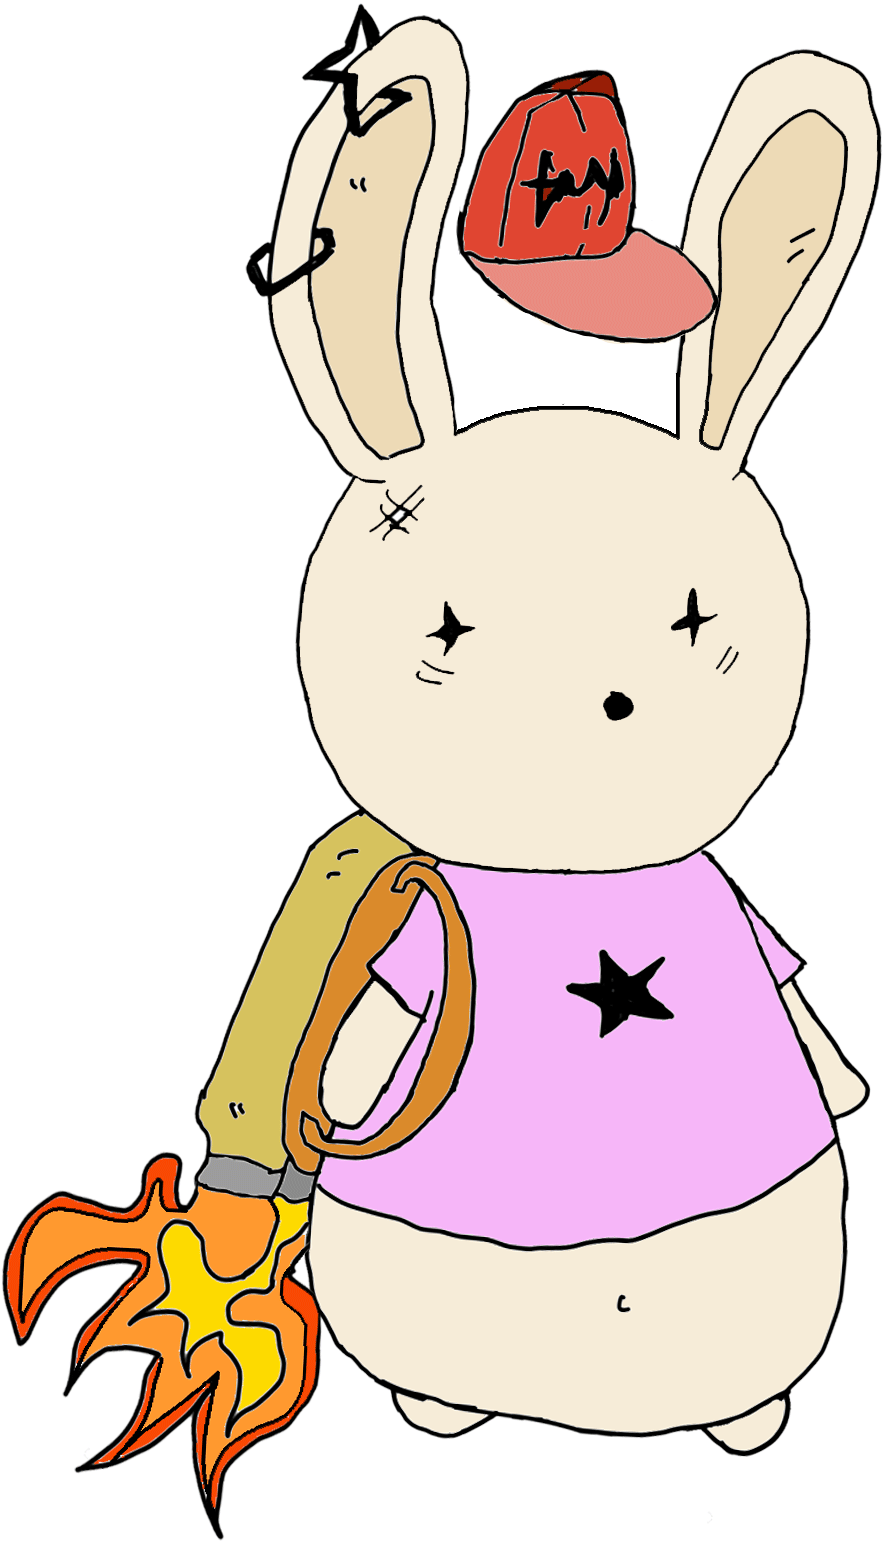
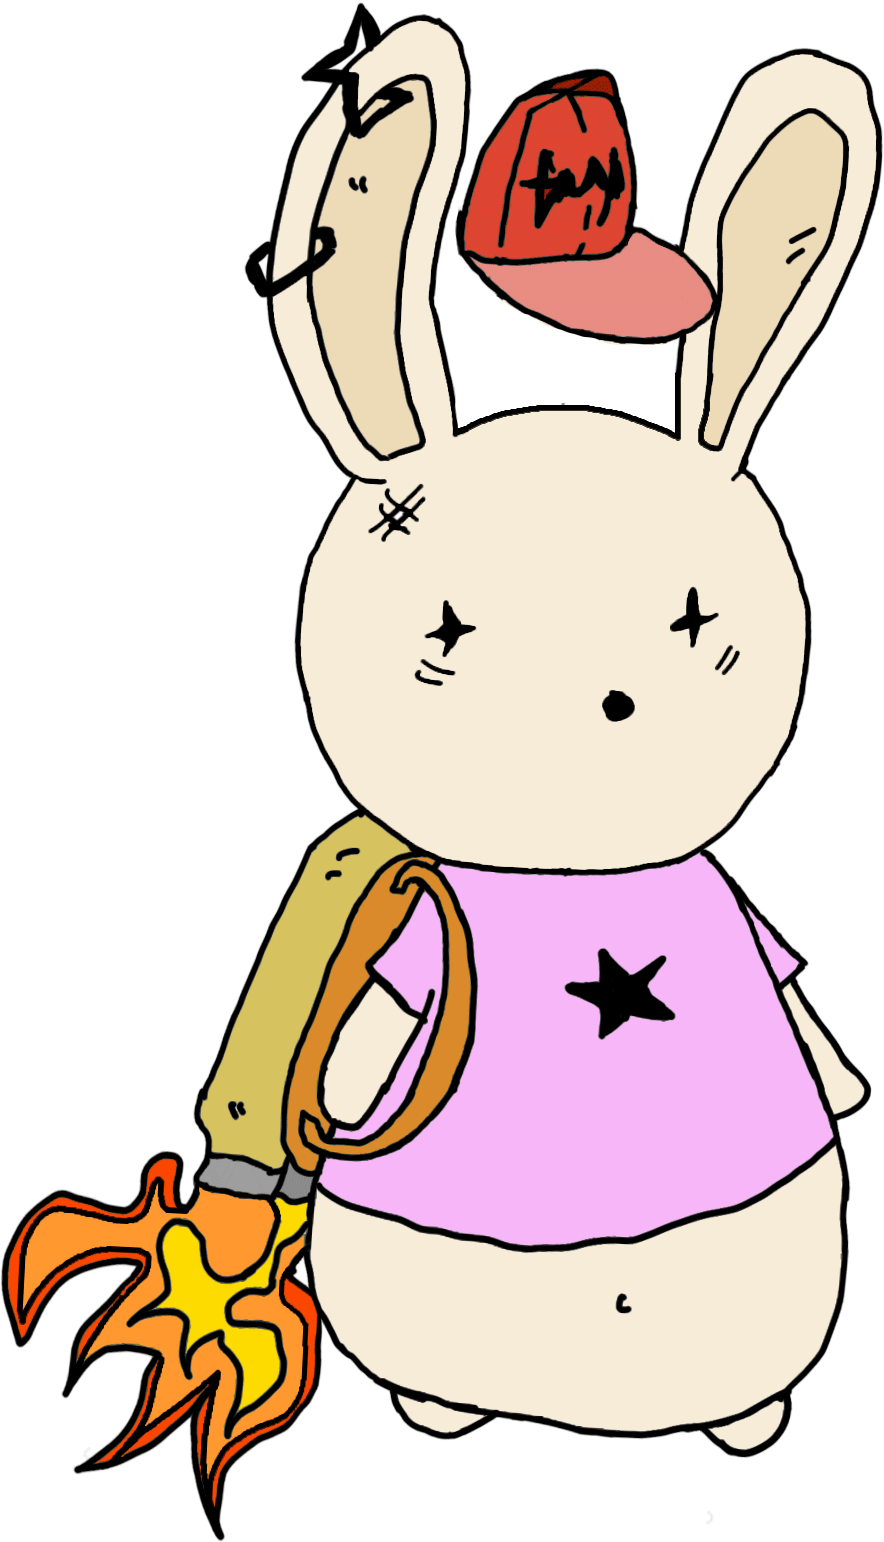
make decor popup fixed with a min height for mobile media

diff --git a/scripts/cloudJumper.js b/scripts/cloudJumper.js
@@ -11,8 +11,6 @@ const desktopInstructions = document.getElementById('desktop-instructions');
 const mobileInstructions = document.getElementById('mobile-instructions');
 const playAgain = document.getElementById('play-again');
 
-// kjnnjcdsfjdsnfhs      remove duplicate variables between config and state and commit with adding my own images and editing format. change positon of game instructions and also add a section to diappear when playing 
-
 // ============================================================
 // Config — every "magic number" lives here, tweak in one place
 // ============================================================

diff --git a/css/popups.css b/css/popups.css
@@ -401,6 +401,9 @@
     }
 
     #decor-popup {
-        position: fixed;
+        position: absolute;
+        top: 0;
+        left: 0;
+        height: clamp(700px, 90vh, 1000px);
     }
 }
